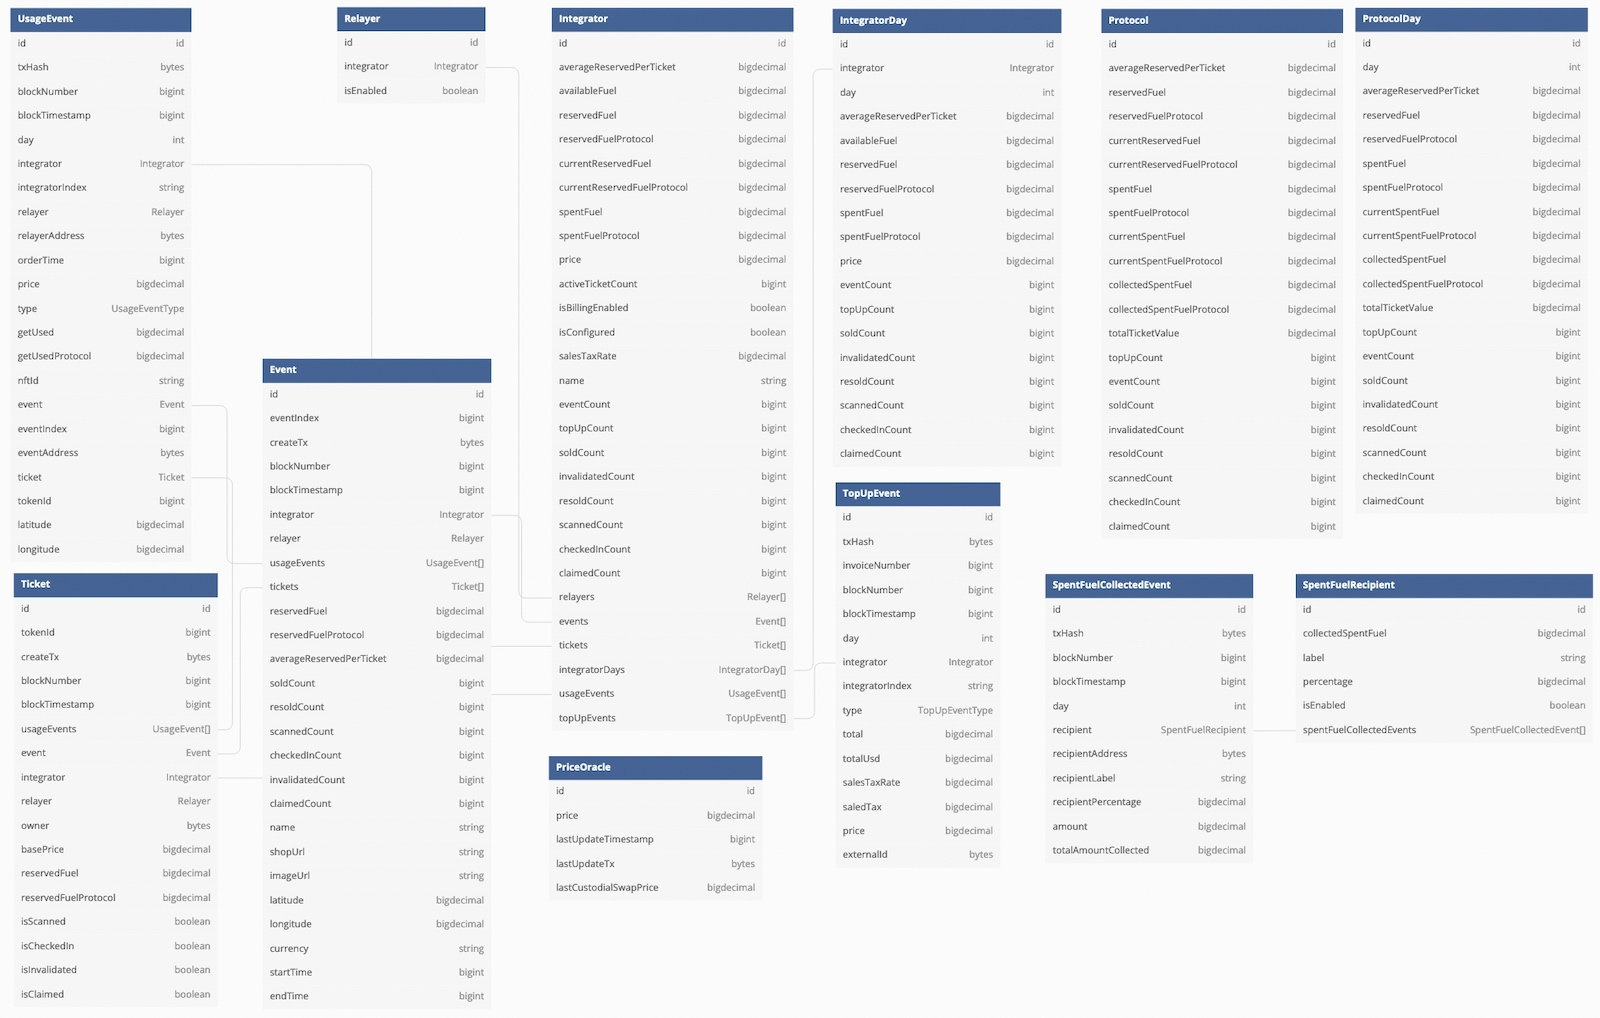
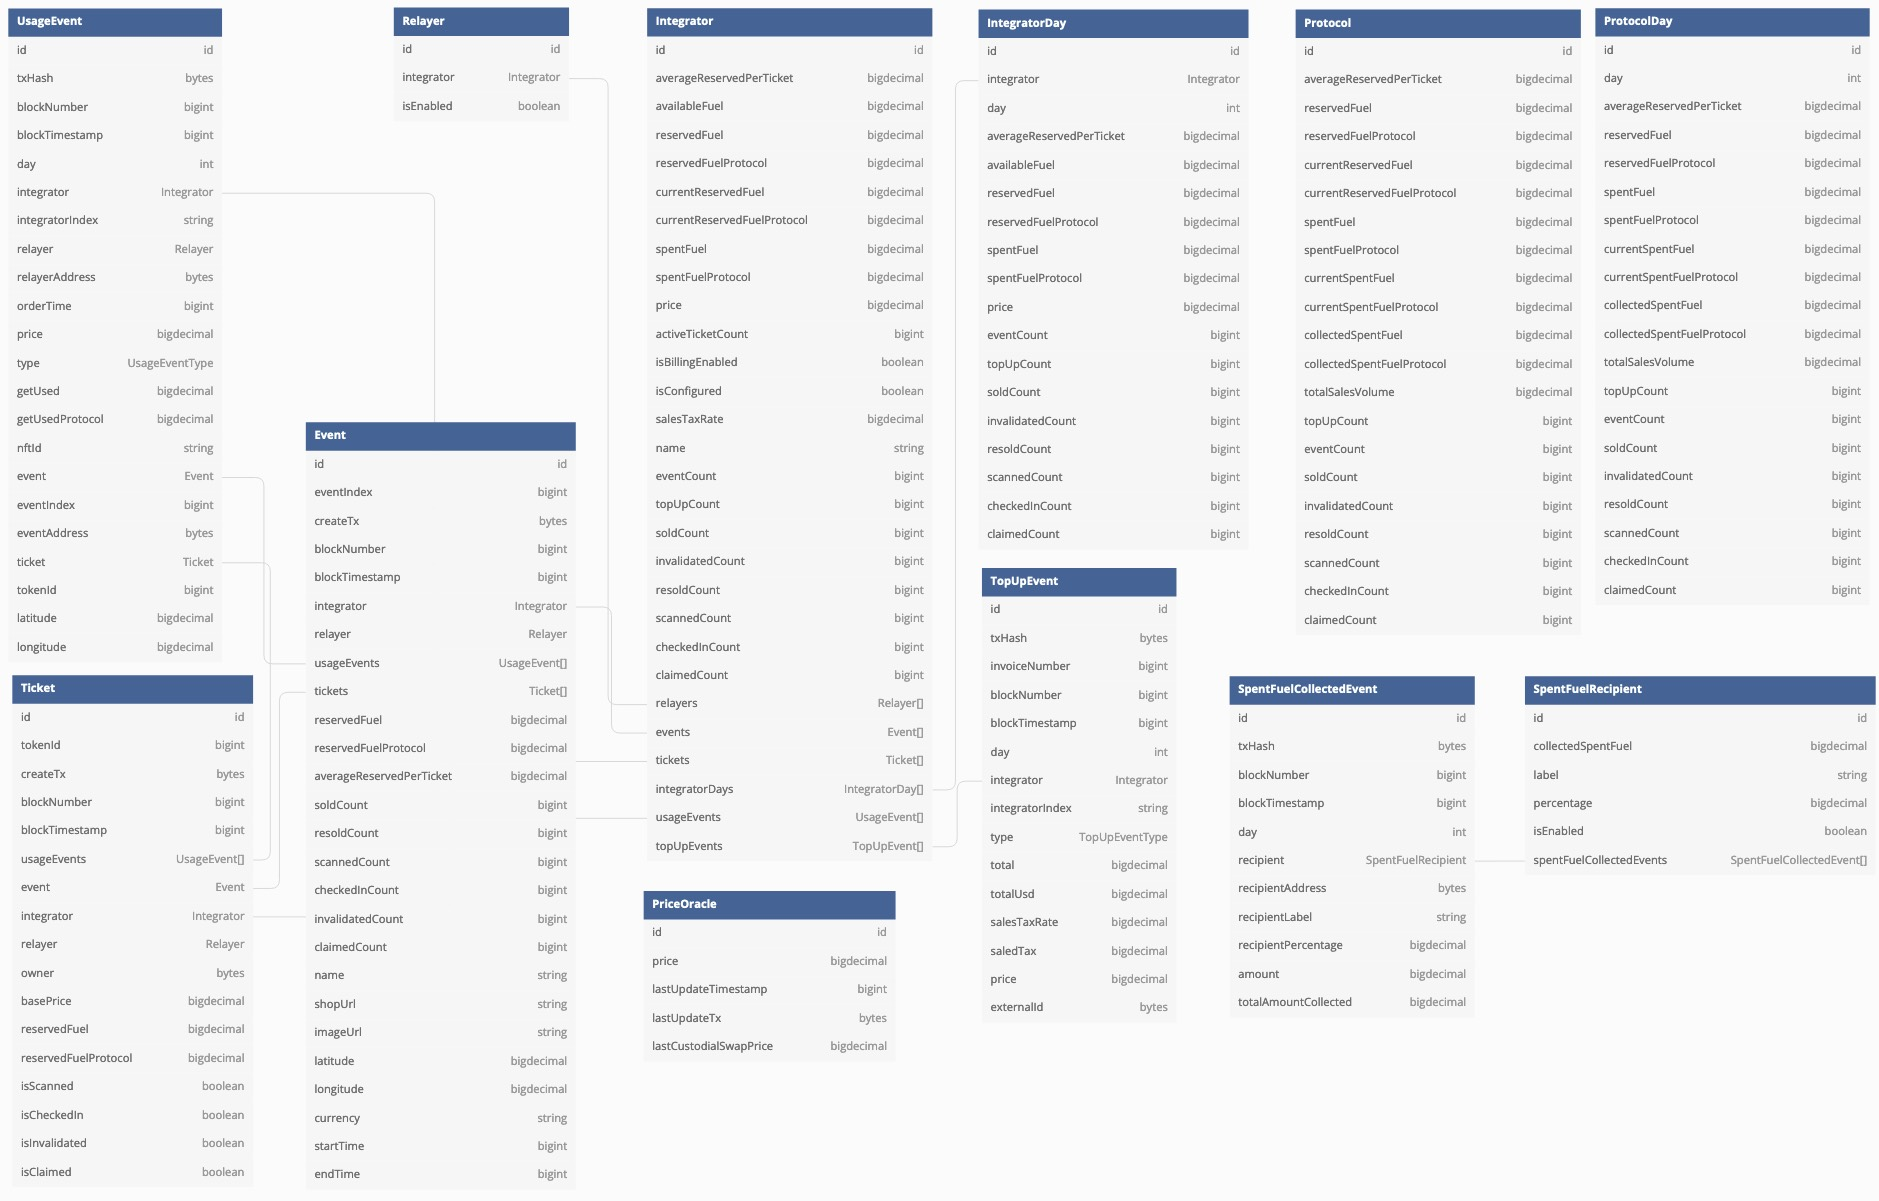
fix: is<x> flag not storing on V1 events
Due to not calling `ticket.save()` after setting the variable locally,
this wasn't being saved across the board. This commit ensures the ticket
is saved on all events.

While here (and needing a fresh re-index) the `totalTicketValue` field
has been renamed to `totalSalesVolume` to make this more clear that it
represents sales and not a more arbitrary form of value measurement.

diff --git a/src/mappings/v1/baseGET.ts b/src/mappings/v1/baseGET.ts
@@ -57,8 +57,8 @@ export function handlePrimarySaleMint(e: primarySaleMint): void {
   ticket.relayer = relayer.id;
   ticket.basePrice = formatPrice(e.params.primaryPrice, event.currency);
 
-  protocol.totalTicketValue = protocol.totalTicketValue.plus(ticket.basePrice);
-  protocolDay.totalTicketValue = protocolDay.totalTicketValue.plus(ticket.basePrice);
+  protocol.totalSalesVolume = protocol.totalSalesVolume.plus(ticket.basePrice);
+  protocolDay.totalSalesVolume = protocolDay.totalSalesVolume.plus(ticket.basePrice);
 
   protocol.soldCount = protocol.soldCount.plus(BIG_INT_ONE);
   protocolDay.soldCount = protocolDay.soldCount.plus(BIG_INT_ONE);
@@ -85,18 +85,20 @@ export function handleTicketInvalidated(e: ticketInvalidated): void {
   let integrator = getIntegrator(event.integrator);
   let integratorDay = getIntegratorDayByIndexAndEvent(event.integrator, e);
 
+  ticket.isInvalidated = true;
+
   protocol.invalidatedCount = protocol.invalidatedCount.plus(BIG_INT_ONE);
   protocolDay.invalidatedCount = protocolDay.invalidatedCount.plus(BIG_INT_ONE);
   integrator.invalidatedCount = integrator.invalidatedCount.plus(BIG_INT_ONE);
   integratorDay.invalidatedCount = integratorDay.invalidatedCount.plus(BIG_INT_ONE);
   event.invalidatedCount = event.invalidatedCount.plus(BIG_INT_ONE);
-  ticket.isInvalidated = true;
 
   protocol.save();
   protocolDay.save();
   integrator.save();
   integratorDay.save();
   event.save();
+  ticket.save();
 
   createUsageEvent(e, 0, event, nftIndex, "INVALIDATED", e.params.orderTime, BIG_DECIMAL_ZERO, BIG_DECIMAL_ZERO);
 }
@@ -113,8 +115,8 @@ export function handleSecondarySale(e: secondarySale): void {
 
   ticket.owner = e.params.destinationAddress;
 
-  protocol.totalTicketValue = protocol.totalTicketValue.plus(ticket.basePrice);
-  protocolDay.totalTicketValue = protocolDay.totalTicketValue.plus(ticket.basePrice);
+  protocol.totalSalesVolume = protocol.totalSalesVolume.plus(ticket.basePrice);
+  protocolDay.totalSalesVolume = protocolDay.totalSalesVolume.plus(ticket.basePrice);
 
   protocol.resoldCount = protocol.resoldCount.plus(BIG_INT_ONE);
   protocolDay.resoldCount = protocolDay.resoldCount.plus(BIG_INT_ONE);
@@ -154,6 +156,7 @@ export function handleTicketScanned(e: ticketScanned): void {
   integrator.save();
   integratorDay.save();
   event.save();
+  ticket.save();
 
   createUsageEvent(e, 0, event, nftIndex, "SCANNED", e.params.orderTime, BIG_DECIMAL_ZERO, BIG_DECIMAL_ZERO);
 }
@@ -180,6 +183,7 @@ export function handleNftClaimed(e: nftClaimed): void {
   integrator.save();
   integratorDay.save();
   event.save();
+  ticket.save();
 
   createUsageEvent(e, 0, event, nftIndex, "CLAIMED", e.params.orderTime, BIG_DECIMAL_ZERO, BIG_DECIMAL_ZERO);
 }

diff --git a/src/mappings/v1.1/baseGET.ts b/src/mappings/v1.1/baseGET.ts
@@ -92,8 +92,8 @@ export function handlePrimarySaleMint(e: PrimarySaleMint): void {
     ticket.basePrice = primaryPrice.divDecimal(BIG_DECIMAL_1E3);
   }
 
-  protocol.totalTicketValue = protocol.totalTicketValue.plus(ticket.basePrice);
-  protocolDay.totalTicketValue = protocolDay.totalTicketValue.plus(ticket.basePrice);
+  protocol.totalSalesVolume = protocol.totalSalesVolume.plus(ticket.basePrice);
+  protocolDay.totalSalesVolume = protocolDay.totalSalesVolume.plus(ticket.basePrice);
 
   protocol.soldCount = protocol.soldCount.plus(BIG_INT_ONE);
   protocolDay.soldCount = protocolDay.soldCount.plus(BIG_INT_ONE);
@@ -211,8 +211,8 @@ export function handleSecondarySale(e: SecondarySale): void {
     price = e.params.resalePrice.divDecimal(BIG_DECIMAL_1E3);
   }
 
-  protocol.totalTicketValue = protocol.totalTicketValue.plus(ticket.basePrice);
-  protocolDay.totalTicketValue = protocolDay.totalTicketValue.plus(ticket.basePrice);
+  protocol.totalSalesVolume = protocol.totalSalesVolume.plus(ticket.basePrice);
+  protocolDay.totalSalesVolume = protocolDay.totalSalesVolume.plus(ticket.basePrice);
 
   protocol.resoldCount = protocol.resoldCount.plus(BIG_INT_ONE);
   protocolDay.resoldCount = protocolDay.resoldCount.plus(BIG_INT_ONE);
@@ -349,6 +349,7 @@ export function handleNftClaimed(e: NftClaimed): void {
   integrator.save();
   integratorDay.save();
   event.save();
+  ticket.save();
 
   createUsageEvent(e, 0, event, nftIndex, "CLAIMED", e.params.orderTime, BIG_DECIMAL_ZERO, BIG_DECIMAL_ZERO, BIG_DECIMAL_ZERO);
 }

diff --git a/src/mappings/v2/eventImplementation.ts b/src/mappings/v2/eventImplementation.ts
@@ -104,8 +104,8 @@ export function handlePrimarySale(e: PrimarySale): void {
     );
   }
 
-  protocol.updateTotalTicketValue(cumulativeTicketValue);
-  protocolDay.updateTotalTicketValue(e, cumulativeTicketValue);
+  protocol.updatetotalSalesVolume(cumulativeTicketValue);
+  protocolDay.updatetotalSalesVolume(e, cumulativeTicketValue);
 
   protocol.updatePrimarySale(countBigInt, reservedFuel, reservedFuelProtocol);
   protocolDay.updatePrimarySale(e, countBigInt, reservedFuel, reservedFuelProtocol);
@@ -145,8 +145,8 @@ export function handleSecondarySale(e: SecondarySale): void {
     );
   }
 
-  protocol.updateTotalTicketValue(cumulativeTicketValue);
-  protocolDay.updateTotalTicketValue(e, cumulativeTicketValue);
+  protocol.updatetotalSalesVolume(cumulativeTicketValue);
+  protocolDay.updatetotalSalesVolume(e, cumulativeTicketValue);
 
   protocol.updateSecondarySale(countBigInt, reservedFuel, reservedFuelProtocol);
   protocolDay.updateSecondarySale(e, countBigInt, reservedFuel, reservedFuelProtocol);

diff --git a/src/entities/protocolDay.ts b/src/entities/protocolDay.ts
@@ -20,7 +20,7 @@ export function getProtocolDay(e: ethereum.Event): ProtocolDay {
     protocolDay.currentSpentFuelProtocol = BIG_DECIMAL_ZERO;
     protocolDay.collectedSpentFuel = BIG_DECIMAL_ZERO;
     protocolDay.collectedSpentFuelProtocol = BIG_DECIMAL_ZERO;
-    protocolDay.totalTicketValue = BIG_DECIMAL_ZERO;
+    protocolDay.totalSalesVolume = BIG_DECIMAL_ZERO;
     protocolDay.topUpCount = BIG_INT_ZERO;
     protocolDay.eventCount = BIG_INT_ZERO;
     protocolDay.soldCount = BIG_INT_ZERO;
@@ -86,8 +86,8 @@ export function updateClaimed(e: ethereum.Event, count: BigInt): void {
   protocolDay.save();
 }
 
-export function updateTotalTicketValue(e: ethereum.Event, price: BigDecimal): void {
+export function updatetotalSalesVolume(e: ethereum.Event, price: BigDecimal): void {
   let protocolDay = getProtocolDay(e);
-  protocolDay.totalTicketValue = protocolDay.totalTicketValue.plus(price);
+  protocolDay.totalSalesVolume = protocolDay.totalSalesVolume.plus(price);
   protocolDay.save();
 }

diff --git a/src/entities/protocol.ts b/src/entities/protocol.ts
@@ -19,7 +19,7 @@ export function getProtocol(): Protocol {
     protocol.currentSpentFuelProtocol = BIG_DECIMAL_ZERO;
     protocol.collectedSpentFuel = BIG_DECIMAL_ZERO;
     protocol.collectedSpentFuelProtocol = BIG_DECIMAL_ZERO;
-    protocol.totalTicketValue = BIG_DECIMAL_ZERO;
+    protocol.totalSalesVolume = BIG_DECIMAL_ZERO;
     protocol.topUpCount = BIG_INT_ZERO;
     protocol.eventCount = BIG_INT_ZERO;
     protocol.soldCount = BIG_INT_ZERO;
@@ -87,8 +87,8 @@ export function updateClaimed(count: BigInt): void {
   protocol.save();
 }
 
-export function updateTotalTicketValue(price: BigDecimal): void {
+export function updatetotalSalesVolume(price: BigDecimal): void {
   let protocol = getProtocol();
-  protocol.totalTicketValue = protocol.totalTicketValue.plus(price);
+  protocol.totalSalesVolume = protocol.totalSalesVolume.plus(price);
   protocol.save();
 }
